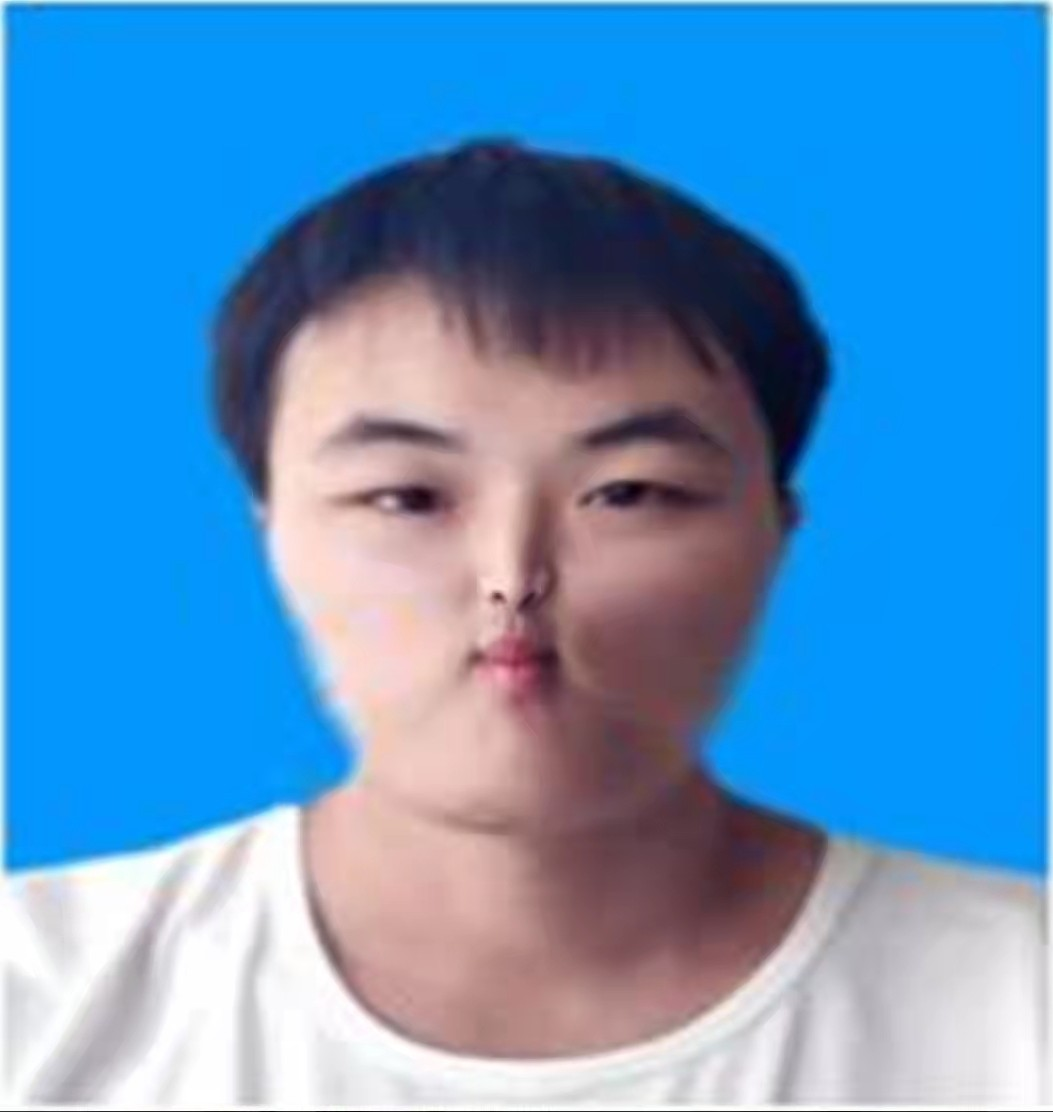
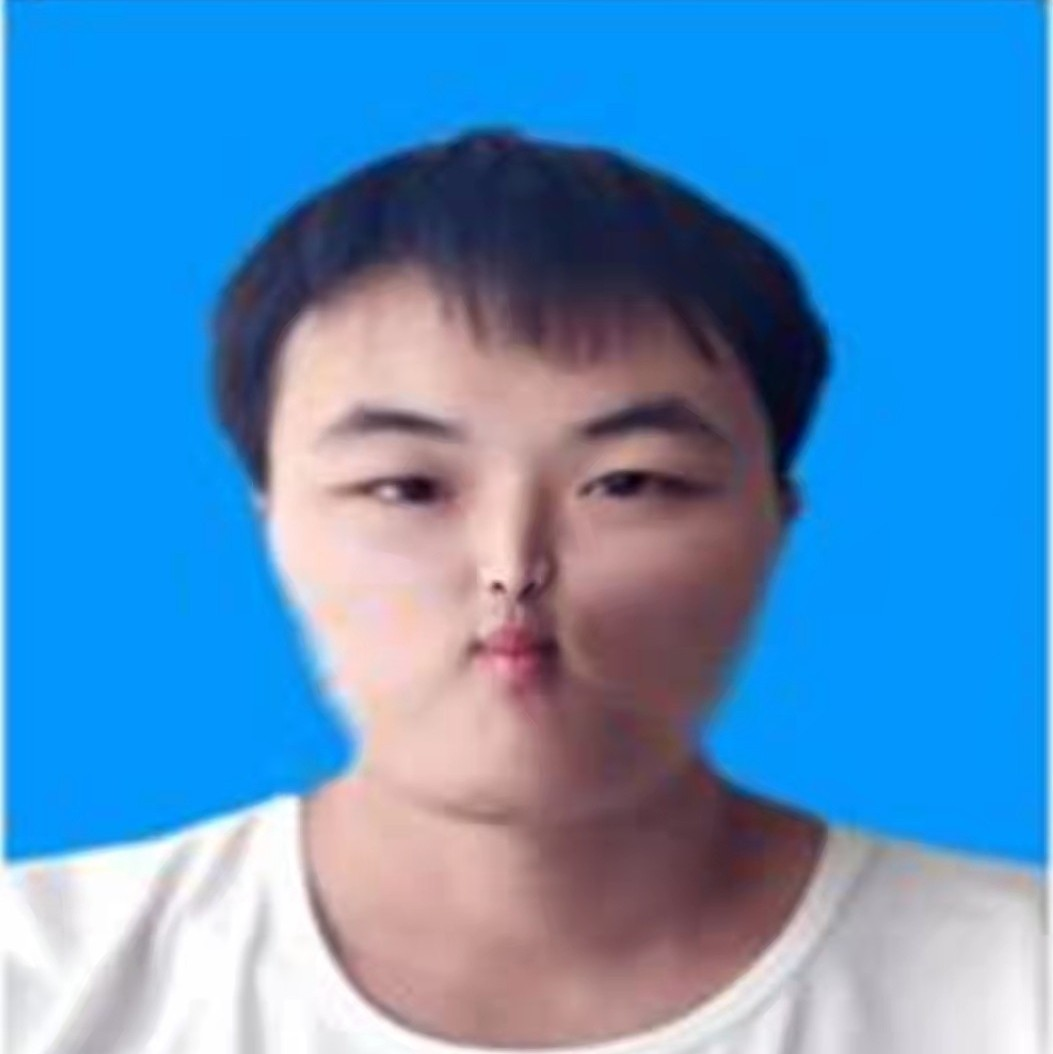
update

diff --git a/_includes/author-profile.html b/_includes/author-profile.html
@@ -6,14 +6,38 @@
 
 <div itemscope itemtype="http://schema.org/Person">
 
-  <div class="author__avatar">
+  <!-- <div class="author__avatar">
     {% if author.avatar contains "://" %}
     	<img src="{{ author.avatar }}" alt="{{ author.name }}">
     {% else %}
-    	<img src="{{ author.avatar | prepend: "/images/" | prepend: base_path }}" class="author__avatar" alt="{{ author.name }}">
+    	<img src="{{ author.avatar | prepend: "/images/" | prepend: base_path }}" data-hover-src="{{ author.hostavatar | prepend: "/images/" | prepend: base_path }}" class="author__avatar" alt="{{ author.name }}">
     {% endif %}
-  </div>
+  </div> -->
 
+  <div class="author__avatar">
+      <img src="{{ author.avatar | prepend: '/images/' | prepend: base_path }}" alt="{{ author.name }}" 
+          data-hover="/images/xieyuser.jpg"     
+          data-normal="/images/xieyuser2.jpg">
+  </div>
+  
+  <script>
+    document.addEventListener('DOMContentLoaded', function () {
+      var authorAvatars = document.querySelectorAll('.author__avatar img');
+
+      authorAvatars.forEach(function(avatar) {
+        // 当鼠标悬停在图片上时，切换到悬停图像
+        avatar.addEventListener('mouseover', function() {
+          this.src = this.getAttribute('data-hover');
+        });
+        // 当鼠标移出图片时，恢复到正常图像
+        avatar.addEventListener('mouseout', function() {
+          this.src = this.getAttribute('data-normal');
+        });
+      });
+    });
+  </script>
+  
+  
   <div class="author__content">
     <h3 class="author__name">{{ author.name }}</h3>
     {% if author.pronouns %}<p class="author__pronouns">{{ author.pronouns }}</p>{% endif %}
@@ -156,3 +180,4 @@
     </ul>
   </div>
 </div>
+

diff --git a/_sass/_sidebar.scss b/_sass/_sidebar.scss
@@ -100,6 +100,7 @@
   }
 }
 
+
 .author__content {
   display: table-cell;
   vertical-align: top;
